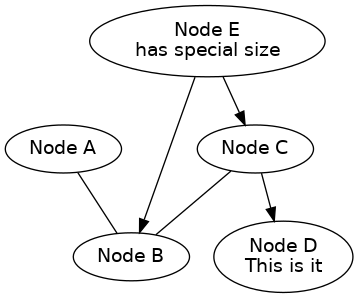
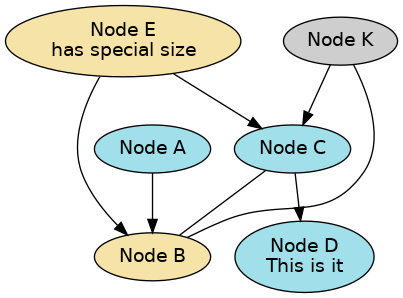
adding project documentation and updating resources for v1.5

diff --git a/NEXT_FEATURES.md b/NEXT_FEATURES.md
@@ -1,6 +1,8 @@
 # Collection of next features to implement
 
 * create preferences menu
-  * allow stylizing node labels (bold, italics, color)
-  * allow stylizing node color (fill, border)
-	* create presets, which can be overwritten
+	* allow modification of category colors
+	* allow selection of drawing method (ellipsies, rounded-rectangles)
+* create help dialog
+* create minimal handbook
+* create video showing off how to use rico-cluster-qt

diff --git a/CHANGELOG.md b/CHANGELOG.md
@@ -1,5 +1,11 @@
 # Changelog
 
+## Version 1.5
+
+* feature: nodes can be grouped into categories now, these are autocolored
+* fix: loading a cluster with many nodes created consistency errors for the next newly created node and its edges
+
+
 ## Version 1.4
 
 * feature: exports rico cluster as graphiz dot digraph file

diff --git a/README.md b/README.md
@@ -73,6 +73,7 @@ After starting the application use the following input commands:
   * edge from node A to B
 	* edge from node B to A
 	* edge without any direction arrows
+* press number 0-5 with node(s) selected: nodes are assigned into autocolored categories (0 - is default category)
 
 ## Export as dot
 
